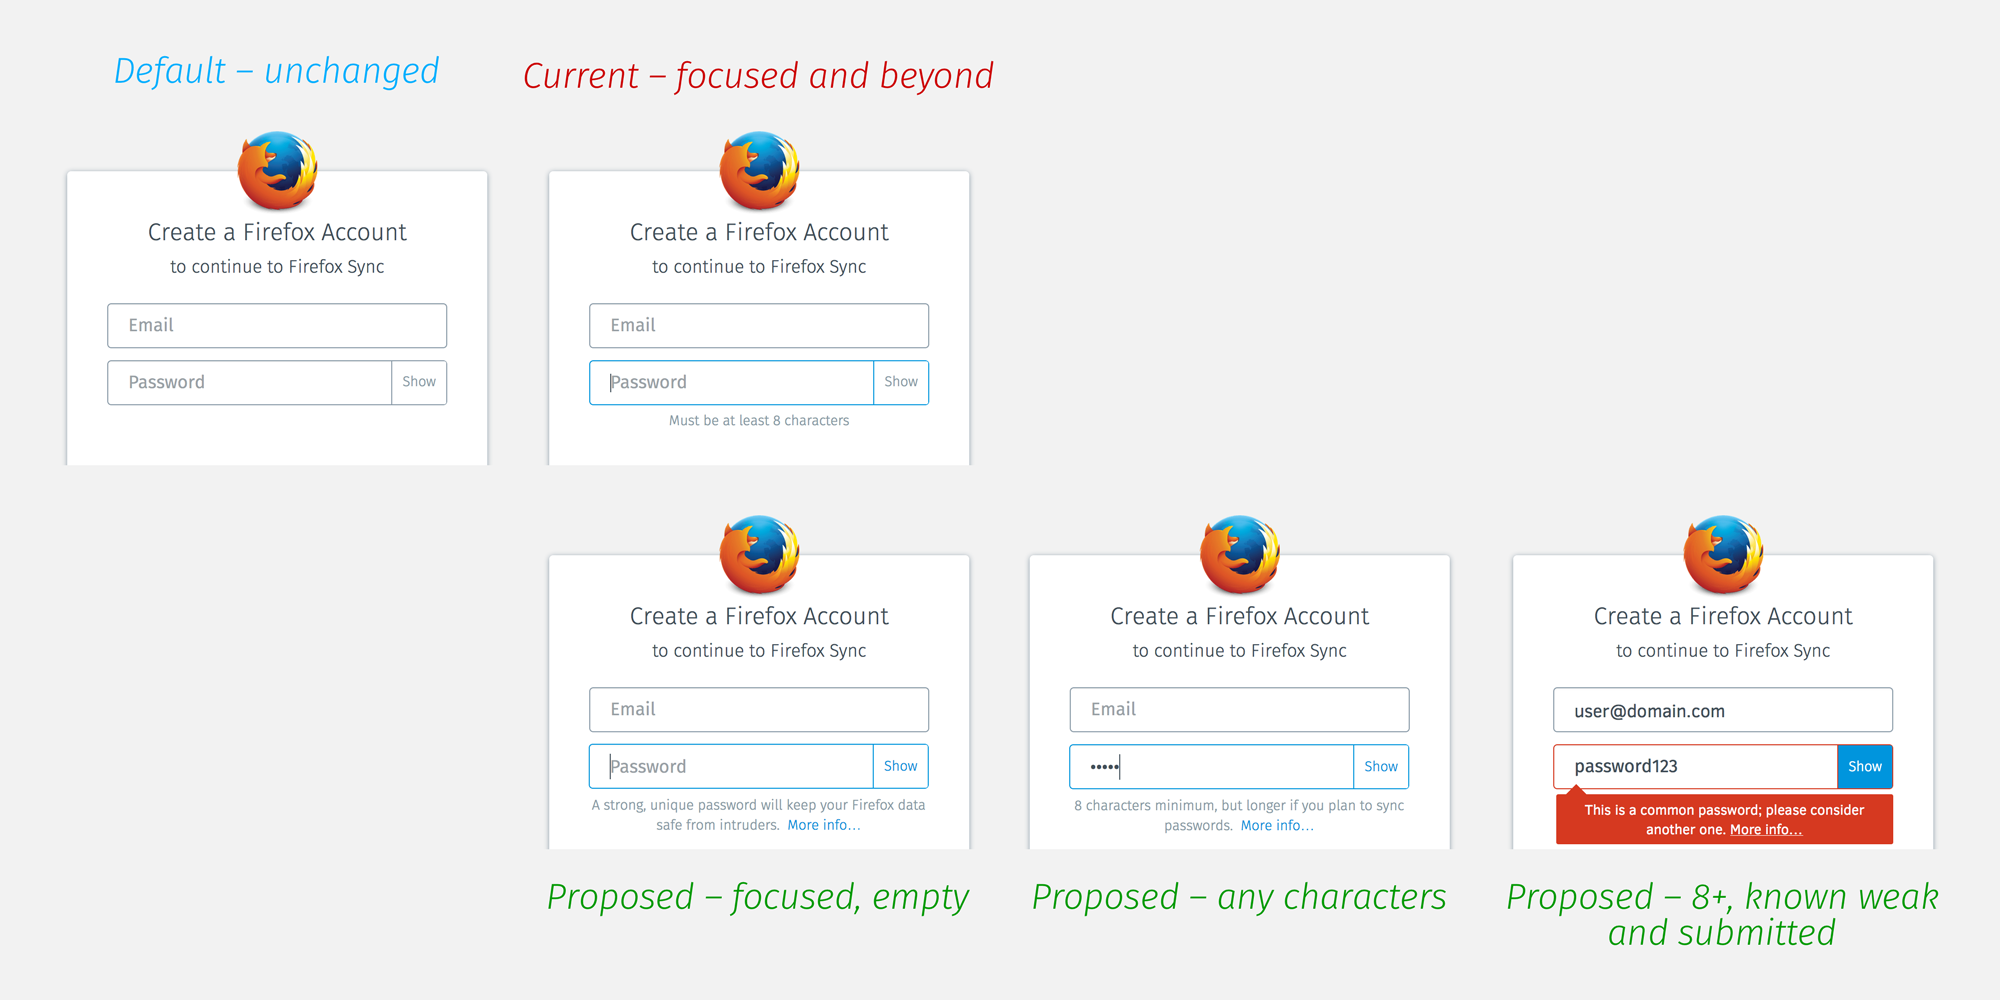
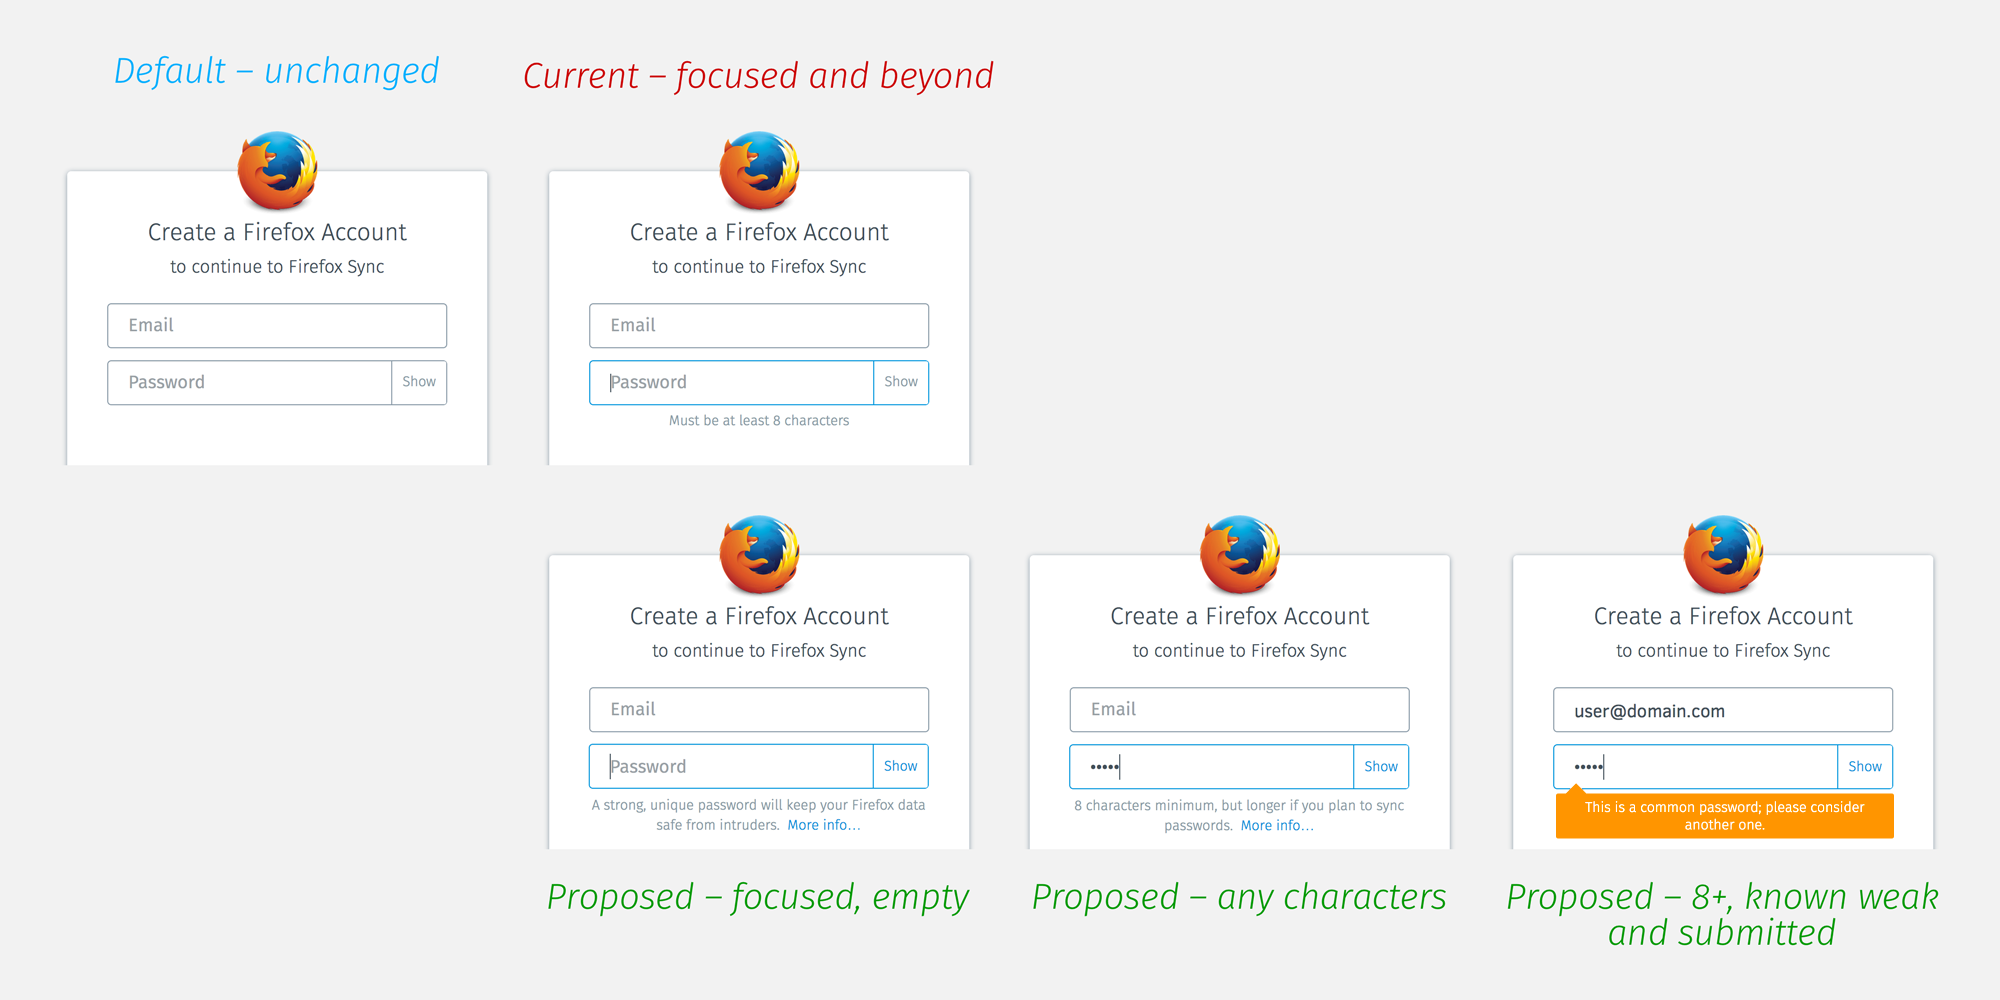
Change to a warning rather than a error

Changed region(s): [[0.775, 0.744, 0.961, 0.868]]

diff --git a/features/FxA-97-password-strength/README.md b/features/FxA-97-password-strength/README.md
@@ -58,7 +58,7 @@ When the user enters any characters, the instructions change to become:
 * 8 characters minimum, but longer if you plan to sync passwords. <u>More info</u>.
 
 #### Submitted password is on our blocklist
-When the user enters a password that is on our blocklist, the UI will behave as if the password field were empty, and show the following error:
+When the user enters a password that is on our blocklist, the UI will behave as if the following error will be shown. The user is still able to submit the form if unchanged. If the user modifies the password, it starts the process over again, and is only submitted if the password is strong enough.
 * This is a common password; please consider another one.  <u>More info</u>.
 
 ### Unresolved questions and risks
